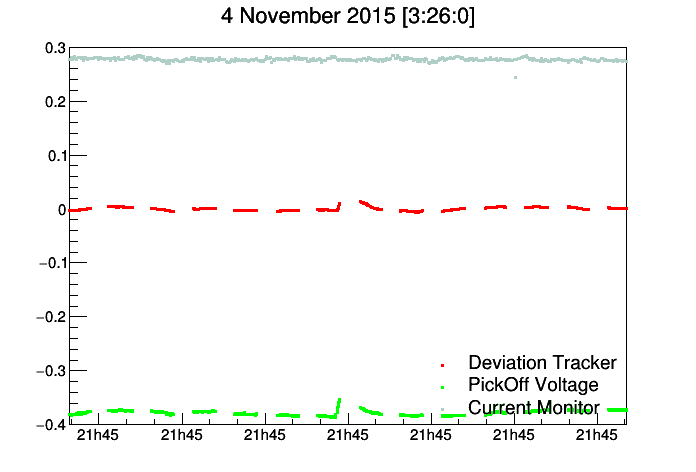
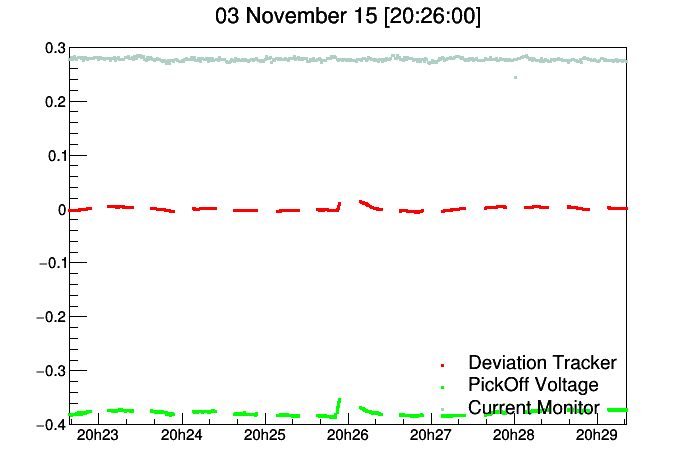
auto

diff --git a/dataFunctions.py b/dataFunctions.py
@@ -2,9 +2,12 @@ import ROOT
 import array
 import math
 import pytz
+from pytz import timezone
 from datetime import datetime as dt
 
-ILtz = pytz.timezone("America/Chicago")
+CST = timezone("US/Central")
+GMT = timezone("Europe/London")
+EUR = timezone("Europe/Rome")
 nullSensitivity = 0.005 # Where to find the "feet" of the peak (0 finds them on the 0 axis)
 
 # Get string with date
@@ -12,9 +15,9 @@ def GetDateString(iTime):
     # year = ROOT.TDatime(int(iTime)).GetYear()
     # month = datetime.date(1900, ROOT.TDatime(int(iTime)).GetMonth(),1).strftime('%B')
     # day = ROOT.TDatime(int(iTime)).GetDay()
-    naive = dt.fromtimestamp(iTime)
+    naive = dt.utcfromtimestamp(iTime)
     aware = pytz.UTC.localize(naive)
-    local = aware.astimezone(ILtz).strftime('%d %B %y')
+    local = aware.astimezone(CST).strftime('%d %B %y')
     return local
 
 
@@ -24,9 +27,9 @@ def GetTimeString(iTime):
     # minute = ROOT.TDatime(int(iTime)).GetMinute()
     # second = ROOT.TDatime(int(iTime)).GetSecond()
     # sTime = "%i:%i:%i" %(hour,minute,second)
-    naive = dt.fromtimestamp(iTime)
+    naive = dt.utcfromtimestamp(iTime)
     aware = pytz.UTC.localize(naive)
-    local = aware.astimezone(ILtz).strftime('%H:%M:%S')
+    local = aware.astimezone(CST).strftime('%H:%M:%S')
     return local
 
 

diff --git a/plotBlips.py b/plotBlips.py
@@ -5,6 +5,9 @@ import sys
 import dataFunctions
 import math
 
+ROOT.gSystem.Setenv("TZ","America/Chicago")
+ROOT.gStyle.SetTimeOffset(0);
+
 # Analysis variables
 bQuickMode = 1 # Batch mode
 # Drawing variables

diff --git a/plotData.py b/plotData.py
@@ -5,6 +5,9 @@ import sys
 import dataFunctions
 import math
 
+ROOT.gSystem.Setenv("TZ","America/Chicago")
+ROOT.gStyle.SetTimeOffset(0);
+
 # Analysis variables
 bQuickMode = 1 # Batch mode
 # Drawing variables

diff --git a/test.py b/test.py
@@ -1,0 +1,6 @@
+from dataFunctions import GetDateString as GDS
+from dataFunctions import GetTimeString as GTS
+
+ut = 1459190616
+
+GTS(ut)
